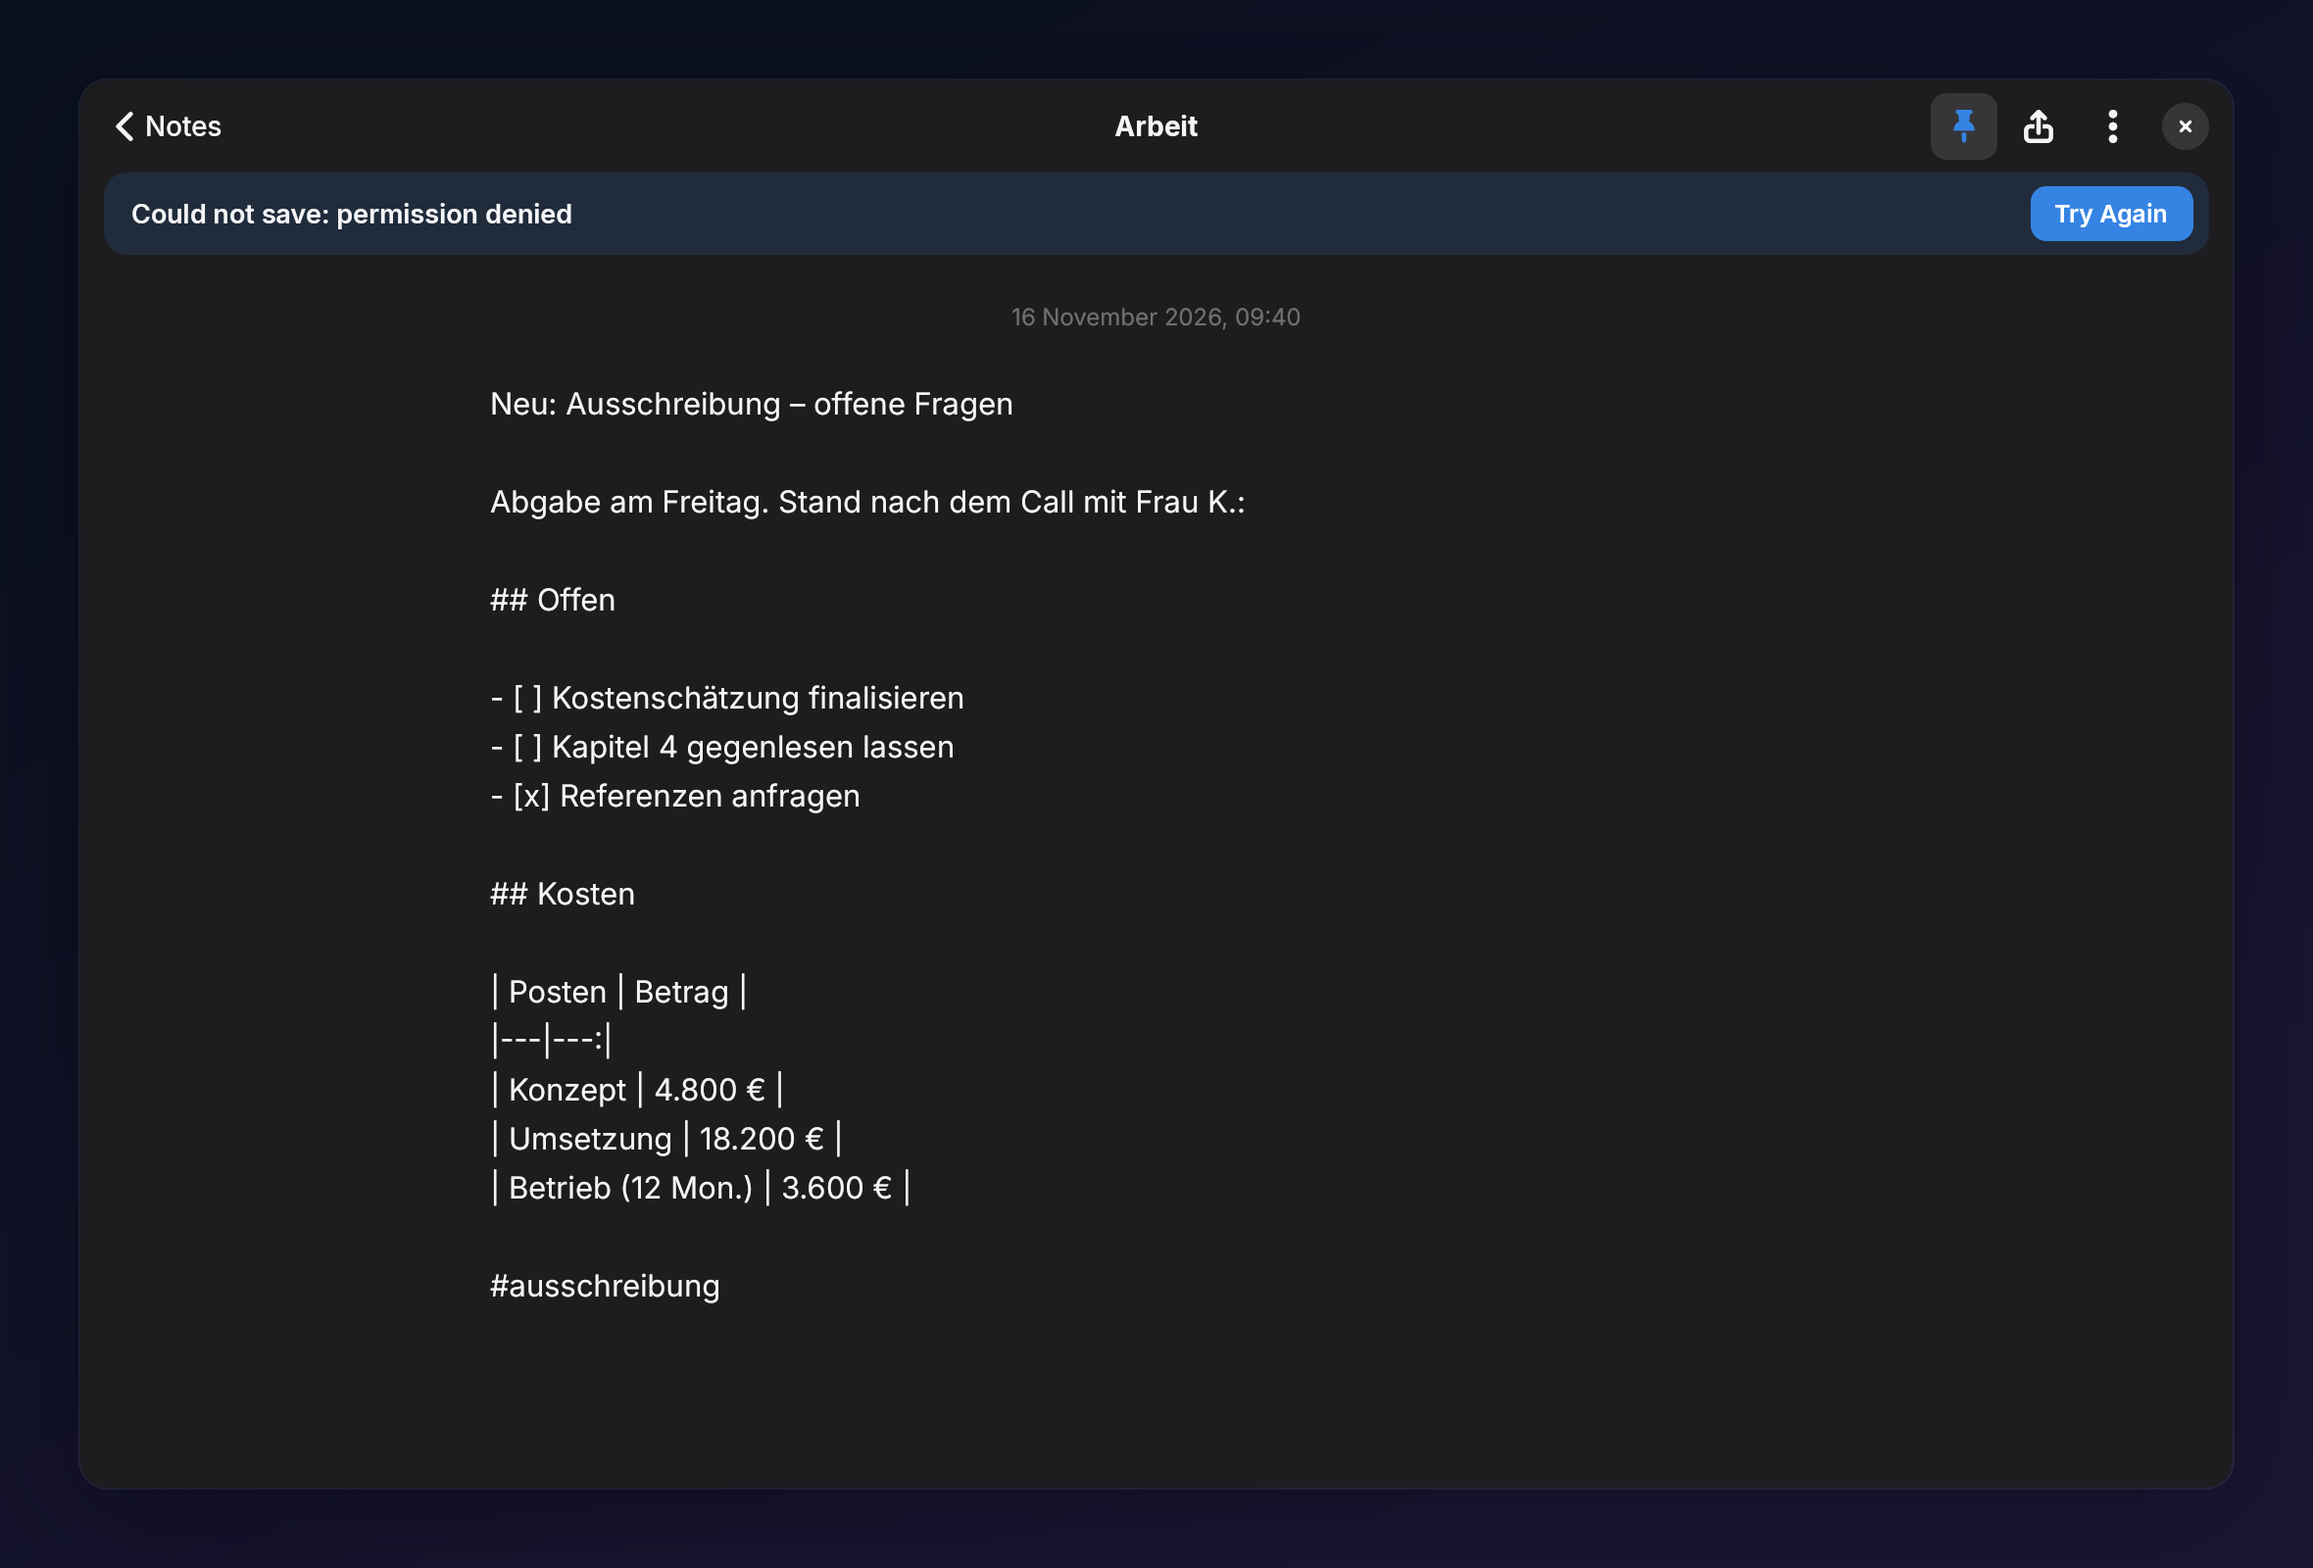
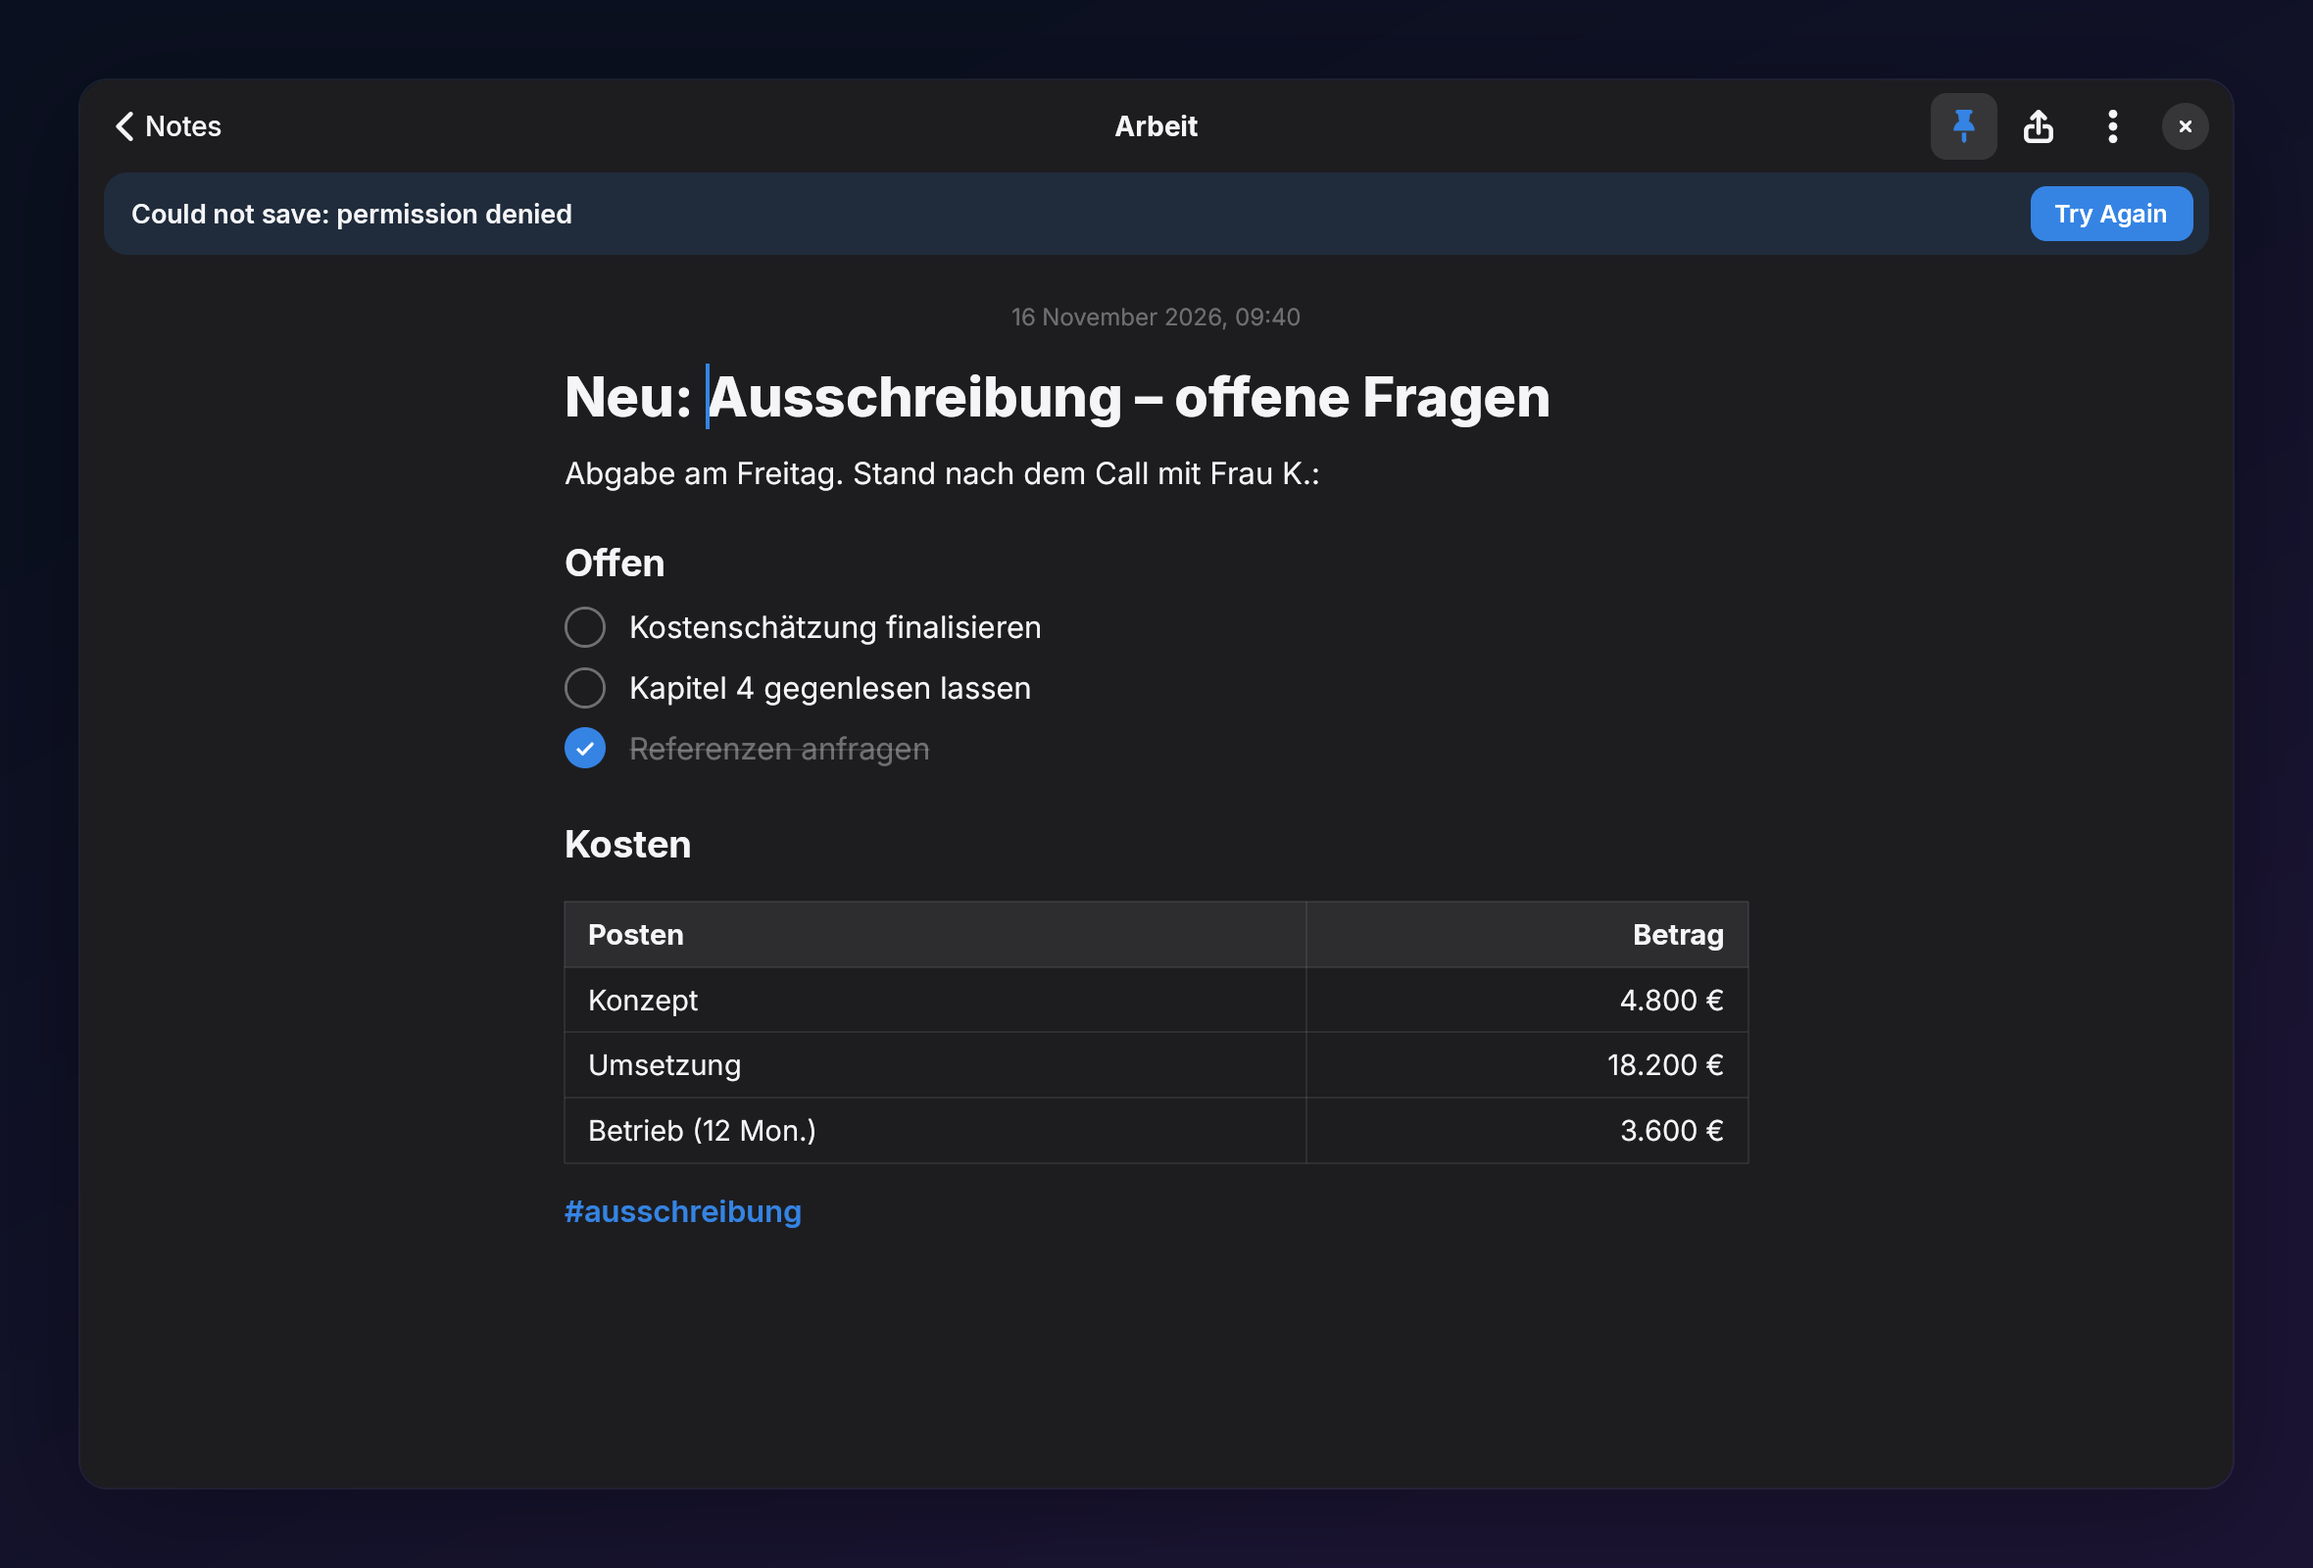
style(note): give table rows the prototype's height
The screenshots show the note rendered by the editor instead of its
Markdown source.

diff --git a/crates/sheaf/src/app/note/setup.rs b/crates/sheaf/src/app/note/setup.rs
@@ -124,6 +124,9 @@ pub fn style(cx: &App) -> EditorStyle {
     style.checkbox_border_color = tokens.faint;
     style.checkbox_checked_color = tokens.accent;
     style.checkbox_check_color = tokens.on_accent;
+    style.table_text_size = tokens.text(14.5);
+    // The prototype's cells have the browser's "normal" line height.
+    style.table_line_height = 1.2;
     style.table_border_color = tokens.hair;
     style.table_header_background = tokens.hover;
     style.link_color = tokens.accent;
